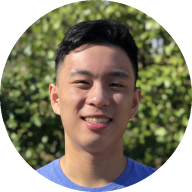
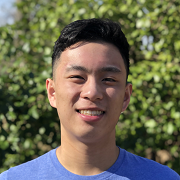
pic

diff --git a/index.html b/index.html
@@ -20,6 +20,18 @@
         width: 65%;
         flex: 65%;
         }
+        .row2 {
+        display: flex;
+        }
+        .lcolumn2 {
+        min-width: 200px;
+        width: 25%;
+        flex: 25%;
+        }
+        .rcolumn2 {
+        width: 75%;
+        flex: 75%;
+        }
     </style>
 	<body class="is-preload">
 
@@ -28,7 +40,6 @@
 
             <!-- Header -->
                 <header id="header" class="alt">
-                    <span class="logo"><img src="images/pfp.png" alt="My profile picture." /></span>
                     <h1>Hey, I'm Dan!</h1>
                     <p>A software engineer and aspiring physicist.</p>
                 </header>
@@ -55,7 +66,12 @@
                                     <header class="major">
                                         <h2>About Me</h2>
                                     </header>
-                                    <p>I'm Daniel Zhan, an undergrad studying Engineering Physics and Computer Science 
+                                    <div class="row2">
+                                    <div class="lcolumn2">
+                                        <span class="logo"><img src="images/pfp.png" alt="My profile picture." /></span>
+                                    </div>
+                                    <div class="rcolumn2" align="left">
+                                        <p>I'm Daniel Zhan, an undergrad studying Engineering Physics and Computer Science 
                                         at Cornell University. Some of my technical interests include space, 
                                         quantum computing, robotics, and video game development. I work on software to 
                                         enable intelligent arm movement with the Cornell 
@@ -63,7 +79,9 @@
                                         to automate circuit verification for qubit ion trap boards at Honeywell Quantum 
                                         through summer 2021. I also love playing badminton and doing cardio at the gym 
                                         in my free time.</p>
-
+                                    </div>
+                                    
+                                    </div>
                                     <p>I'm always open to new challenges and projects! You can reach me at dz268@cornell.edu.</p>
                                     <!--
                                     <ul class="actions">
